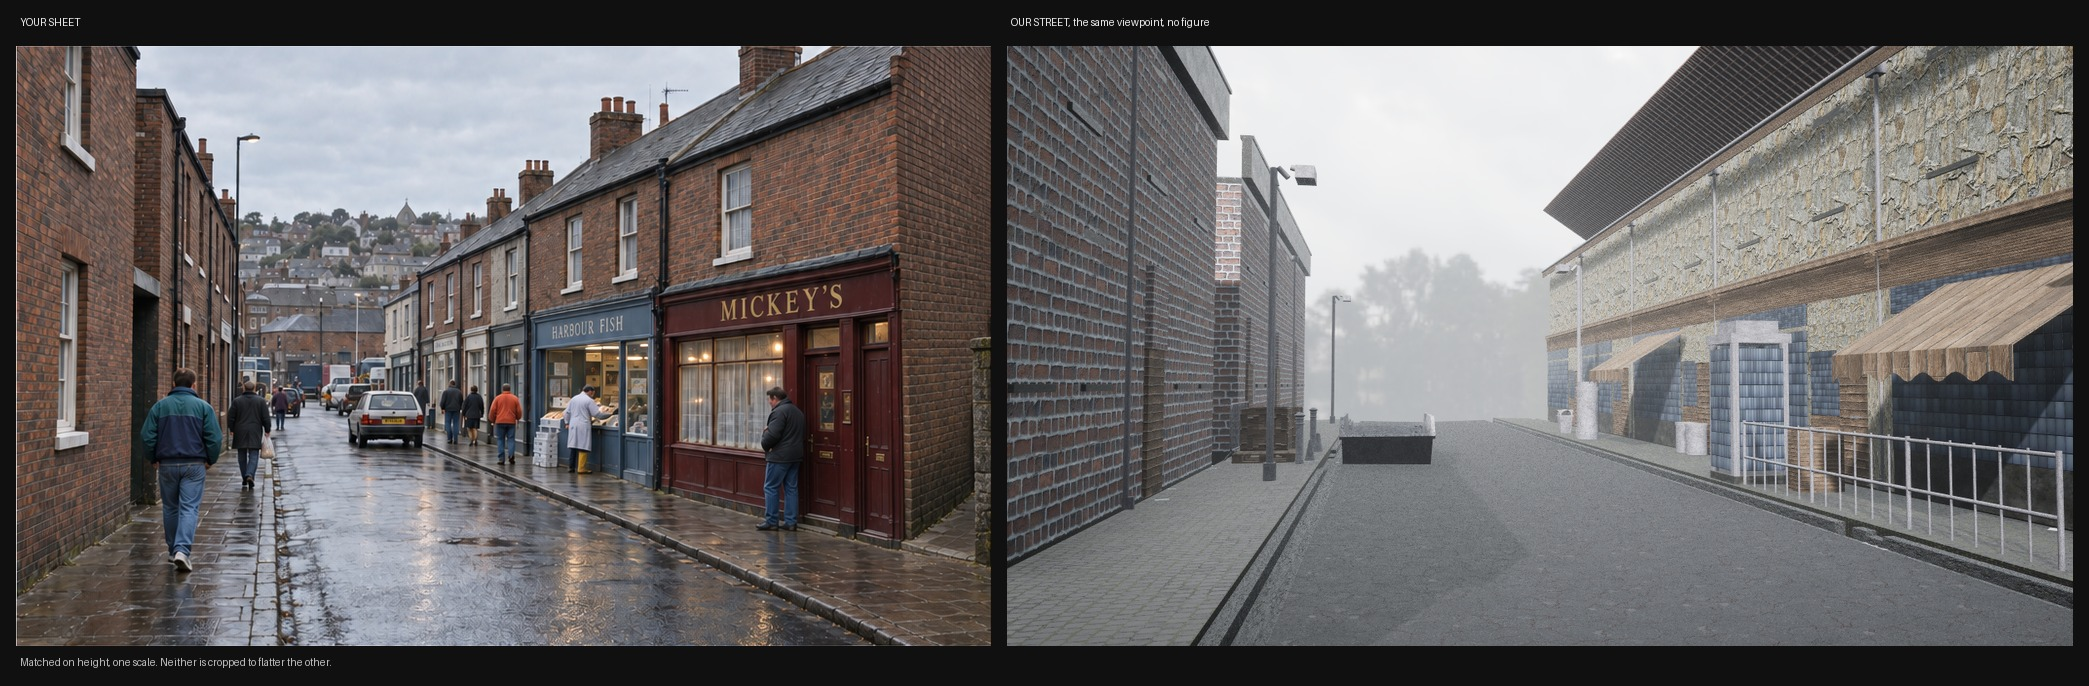
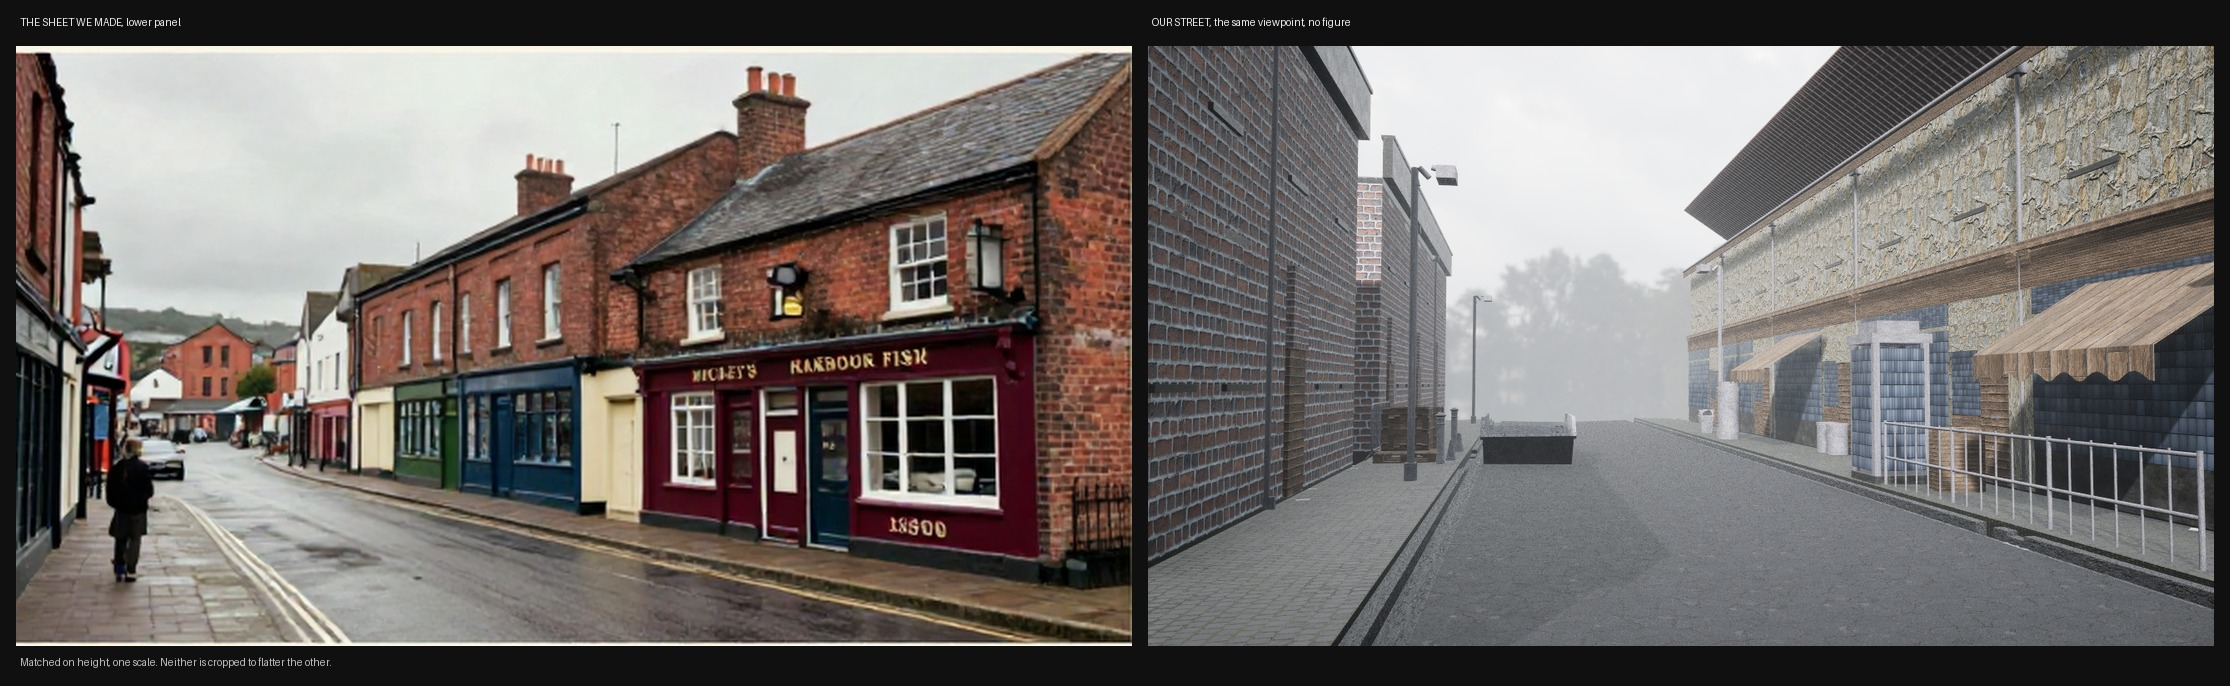
The comparison was against the wrong sheet, and the judgement was wrong with it
HE CAUGHT IT: "That is not the right pic you're comparing against."

WHAT I DID WRONG. production/ladder.md rung 1 reads "the lower panel of OUR OWN
Hook sheet, approved by Jafar 2026-09-10 and MADE THE REFERENCE PANEL IN PLACE
OF THE OUTSIDE ONE". I read the cam_hook spec note, which names
origin/art/atlas-01's hook.png, took its crop coordinates, and never opened the
whole sheet or read the rung that governs it. NOW.md:1833 says in as many words
that the atlas-branch sheet IS the outside one. So I compared our street to a
reference the ladder had already retired, and graded us against a bar nobody
set.

I ALSO NEVER OPENED THE FULL SHEET BEFORE CROPPING IT. I cropped from numbers in
a document. Rule 4 is to open the artifact you are shipping, and the crop was
right by accident: the panel was the street, but the SHEET was the wrong one.

THE JUDGEMENT THAT WENT WITH IT WAS WRONG IN ITS MAIN CLAIM. I said the gap was
INHABITATION, nine or ten people against nobody. Our own sheet has ONE walker
and a parked car. Against the real reference that difference is small.

WHAT THE GAP ACTUALLY IS, re-judged against our own sheet: DRESSING. Its right
side is a continuous terrace of painted shopfronts, cream, green, blue,
oxblood, each with its own frontage, sash windows and goods behind glass; ours
is one blank stone-and-tile block with awnings and railings. That is queue 195,
the street has no windows, showing up visually. Then palette, warm brick and
[…]

diff --git a/production/outbox/2026-09-17-your-sheet-beside-our-street.answer.md b/production/outbox/2026-09-17-your-sheet-beside-our-street.answer.md
@@ -1,11 +1,11 @@
-Your sheet left, ours right, same viewpoint. It is not close.
+Our sheet left, the built street right, same viewpoint. Closer than I first said, and I had it wrong.
 
-The gap is inhabitation, not fidelity. Yours has nine or ten people, a car, vans, a man in a white coat serving fish. Ours has nobody and nothing that moves. That alone outweighs the rest, and it made this worth doing before more weeks on surfaces.
+I first put ours beside the outside sheet, which the ladder replaced as the reference. Against our own, the gap is not that ours is empty: yours has one walker and a parked car, not a crowd.
 
-Your road mirrors the shopfronts its whole length, ours is dry, the biggest single loss, because a wet British street is mostly reflection; your shopfronts are businesses, lettered, lit, curtained, stocked, ours blank; your warm interior light gives depth, ours none; yours ends in a hill of houses fading into mist, ours in a tree line, nothing behind; ours reads too wide.
+The gap is dressing. Yours is a run of painted shopfronts, cream, green, blue, oxblood, each with its own frontage, sash windows, goods behind glass, lettering, chimneys, slate. Ours is one blank block with awnings and railings. Yours is warm brick and saturated paint; ours is grey and cold. Yours ends in a hill of houses, ours in a tree line. Yours is wet with crisp yellow lines; ours reads dry. Ours is still too wide.
 
-What is good, and it is the hard half: brickwork, kerb, channel and gully, pavement, fog depth, camera feel. The bones match; what is missing is dressing, wetness, light and people.
+What is good, the hard half: brickwork, kerb, channel and gully, pavement, fog depth, camera feel. The bones match. What is missing is shopfronts, windows, colour and weather.
 
-No figure in this frame: not ready, and its fix waits for the reset, as you ruled.
+No figure in this frame: not ready, and its fix waits for the reset.
 
 [the console](https://jsab258.github.io/ledger/)
